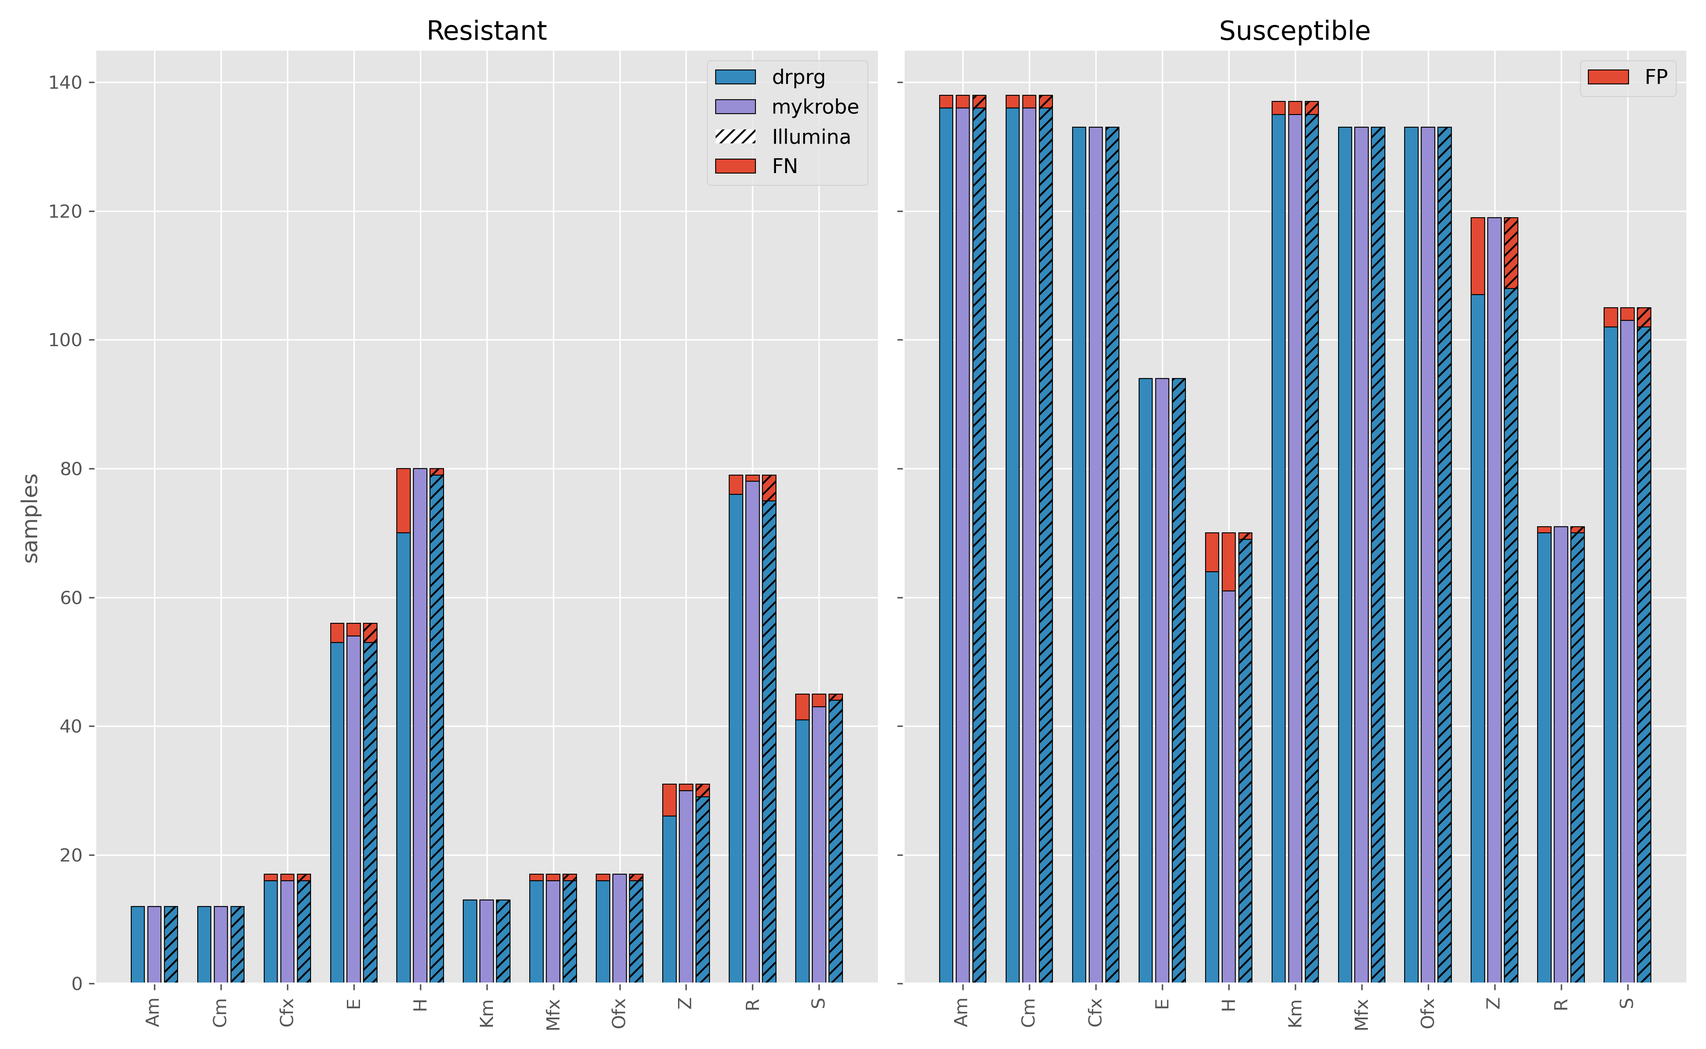
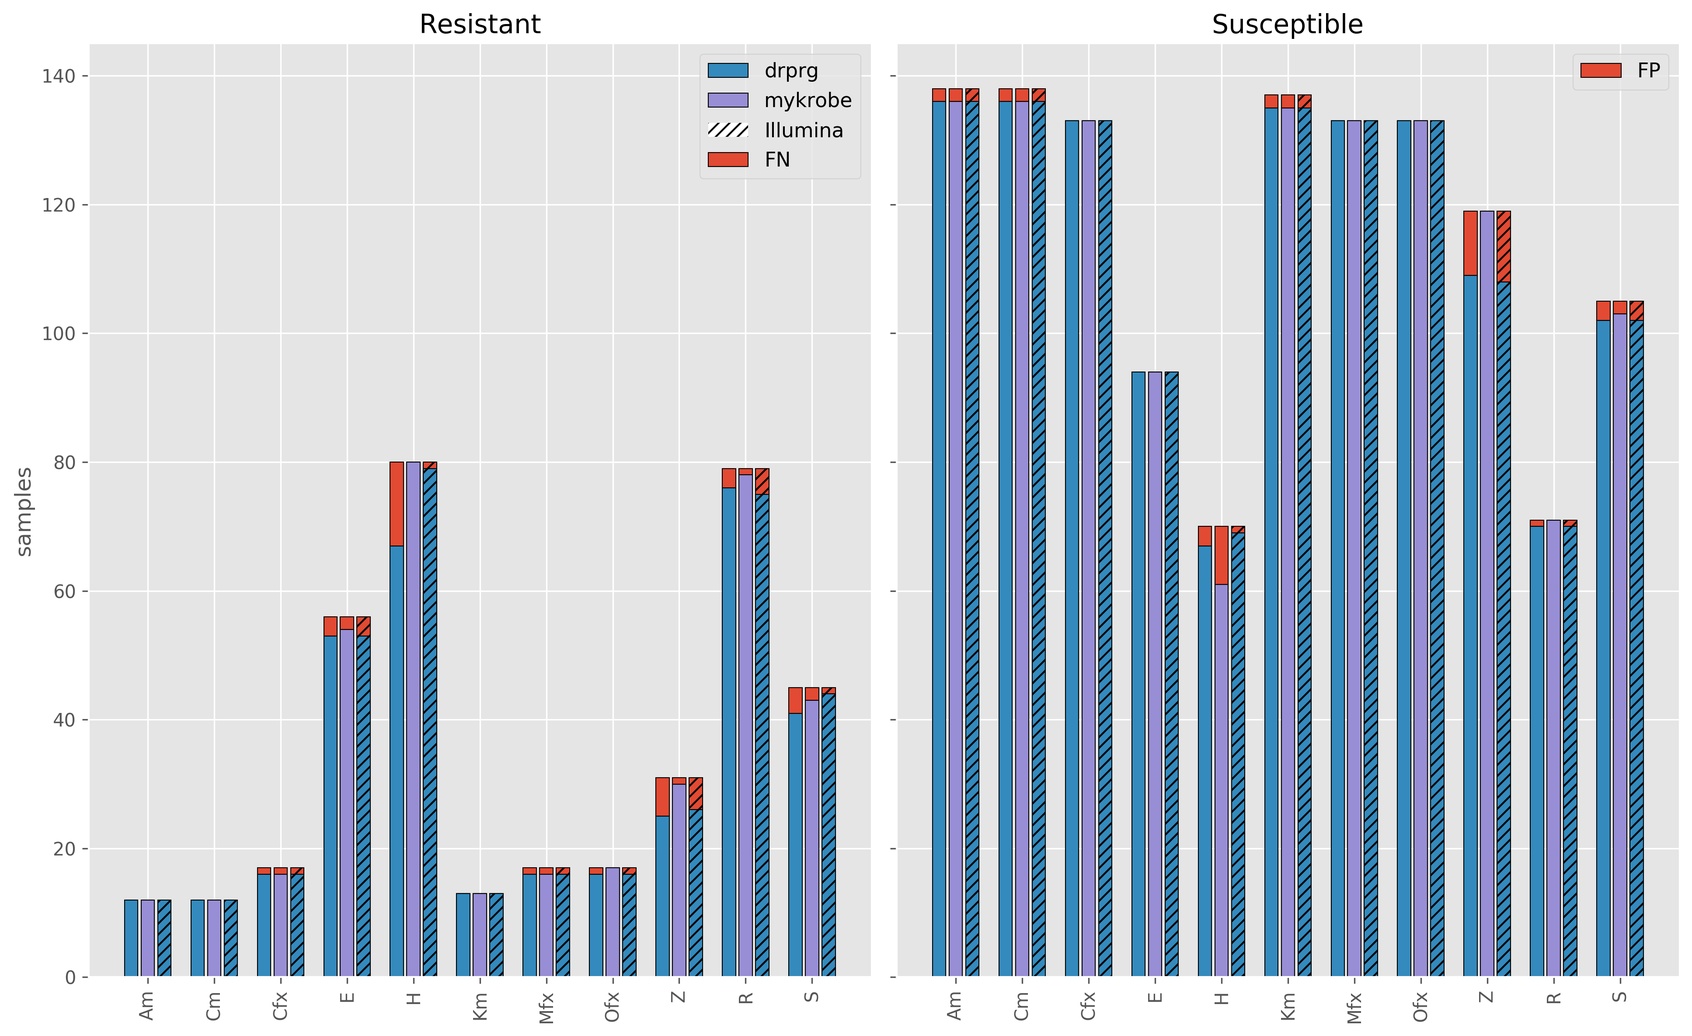
Drafting: illumina concordance DST [#3]

diff --git a/Chapter3/chapter3.tex b/Chapter3/chapter3.tex
@@ -51,7 +51,7 @@ The \mtb{} samples used in this chapter are those described in \autoref{sec:ch2-
 \towrite[inline]{waiting for text from collaborators}
 
 \subsubsection{Madagascar}
-Culture on Löwenstein-Jensen (LJ) still the gold standard method for MTB identification and for the detection of resistance. The indirect proportion method on LJ medium was performed to test the susceptibility of positive cultures against anti-TB drugs. 4 μg.ml-1, 0.2 μg.ml-1, 40 μg.ml-1, at 2 μg.ml-1, 30 μg.ml-1, 30 μg.ml-1, and 40 μg.ml-1 were the critical concentration used for Streptomycin, Isoniazid, Rifampicin, Ethambutol, Kanamycin, Amikacin and Capreomycin respectively. The growth on a drug-free medium was compared with the growth on a medium containing anti-TB agent. An isolate was identified resistant if at least 1\% of growth is present at the critical concentration of drug in the culture medium. 
+Culture on Löwenstein-Jensen (LJ) still the gold standard method for MTB identification and for the detection of resistance. The indirect proportion method on LJ medium was performed to test the susceptibility of positive cultures against anti-TB drugs. 4 ug.ml-1, 0.2 ug.ml-1, 40 ug.ml-1, at 2 ug.ml-1, 30 ug.ml-1, 30 ug.ml-1, and 40 ug.ml-1 were the critical concentration used for Streptomycin, Isoniazid, Rifampicin, Ethambutol, Kanamycin, Amikacin and Capreomycin respectively. The growth on a drug-free medium was compared with the growth on a medium containing anti-TB agent. An isolate was identified resistant if at least 1\% of growth is present at the critical concentration of drug in the culture medium. 
 
 \noindent
 In total, 128 samples have phenotypic information for at least one drug, with 80 having phenotypes for eight drugs. \autoref{tab:available-dst} shows the number of samples with culture-based DST for each drug and \autoref{fig:available-dst} depicts the combinations of drugs available for samples. For instance, in \autoref{fig:available-dst}, the third column reveals that 29 samples have phenotype information for ofloxacin and amikacin, while row three shows that 51 samples have available DST for kanamycin. 
@@ -198,7 +198,7 @@ For the drug/sample combinations with available culture-based phenotypes, we cla
 \begin{figure}
 \begin{center}
 \includegraphics[width=0.90\columnwidth]{Chapter3/Figs/pheno_concordance_plot.png}
-\caption{{Number of resistant (left) and susceptible (right) phenotypes correctly identified by mykrobe from Illumina (blue) and Nanopore (purple) data from the same samples. The red bars indicate missed (FN) or incorrect (FP) predictions. The x-axis shows the drugs with available phenotype data that mykrobe also makes predictions for. E - ethambutol; H - isoniazid; Z - pyrazinamide; R - rifampicin; S - streptomycin; Km - kanamycin; Am - amikacin; Ofx - ofloxacin; Cm - capreomycin; Mfx - moxifloxacin.
+\caption{{Number of resistant (left) and susceptible (right) culture-based drug susceptibility testing (DST) phenotypes correctly identified by mykrobe (purple) and \drprg{} (blue) with Illumina (non-striped) and \ont{} (striped) data. The red bars indicate missed (FN) or incorrect (FP) predictions. The x-axis shows the drugs with available phenotype data that the tools make predictions for. E - ethambutol; H - isoniazid; Z - pyrazinamide; R - rifampicin; S - streptomycin; Km - kanamycin; Am - amikacin; Ofx - ofloxacin; Cm - capreomycin; Mfx - moxifloxacin.
 {\label{fig:pheno-concordance}}
 }}
 \end{center}
@@ -516,7 +516,7 @@ Drug &
   94.8\% (87.4-98.0\%) \\ \hline
 \end{tabular}%
 }
-\caption{Comparison of drug resistance predictions with culture-based phenotype. For this comparison, we assume the drug susceptibility testing phenotype is correct and evaluate mykrobe Illumina and Nanopore resistance predictions accordingly. Pyrazinamide and Moxifloxacin are excluded as phenotype information is only available for 1 sample. FN=false negative; R=number of resistant samples; FP=false positive; S=number of susceptible samples; FNR=false negative rate; FPR=false positive rate; PPV=positive predictive value; NPV=negative predictive value; CI=Wilson score confidence interval}
+\caption{Comparison of WGS-based drug resistance prediction concordance with culture-based drug susceptibility testing (DST) phenotypes. For this comparison, we assume the DST phenotype is correct and evaluate the WGS predictions accordingly. \drprg{} and mykrobe are the two tools that provide WGS predictions. FN=false negative; R=number of resistant samples; FP=false positive; S=number of susceptible samples; FNR=false negative rate; FPR=false positive rate; PPV=positive predictive value; NPV=negative predictive value; CI=Wilson score confidence interval}
 \label{tab:pheno-concordance}
 \end{table}
 
@@ -529,18 +529,26 @@ While there is a seemingly high number of FNs and FPs for some drugs, many of th
 %=========================================================================
 \section{Concordance with Illumina}
 \label{sec:geno-concordance}
-% ***************
-% text from authorea
-We saw in Section 3.5 that Nanopore-derived resistance predictions are inline with those from Illumina when comparing to DST information. As not all samples in the dataset have DST data, and not all samples with DST information have all drugs covered, we explore whether the Nanopore predictions are concordant with those from Illumina - for all drugs. As our sequencing data is matched, this analysis will highlight whether the prediction method used by mykrobe is well-tuned for Nanopore data. Given the rigorous and broad validation of mykrobe's prediction power on Illumina data, if Nanopore results are concordant, this will go a long way to endorsing it's use for resistance prediction.
-We follow the same classification approach as in Section 3.5, but assume the Illumina prediction is the true phenotype and compare the Nanopore predictions accordingly. Table 3 shows that Nanopore predictions are congruent with Illumina.
-Across all drugs, there were 9 FNs (missed resistance) in total. Eight of those FNs are situations where the Illumina data has called minor resistance - a heterozygous call at a resistance-causing variant. As mykrobe uses a haploid model for Nanopore, this is unavoidable until such time as a diploid model can be employed. We did attempt to use a diploid model for Nanopore, but found a dramatic increase in the number of FNs. The other FN has a DST phenotype of susceptible for that drug (streptomycin), but some support for a resistance-causing variant in the VCFs from Sections 2.4 and 2.5 - so the truth is uncertain.
-Of the 15 FPs made; seven show strong support for the resistance-causing variant in VCFs for both technologies, with the mykrobe results from Illumina having also called the variant, but having been filtered due to low coverage;  three have a DST phenotype of resistant, indicating the Illumina result may be incorrect; five occur in the same GC-rich section of the katG gene, and are false positive indel calls by Nanopore - a known systematic problem (Watson 2019).
-% ***************
+
+We saw in \autoref{sec:pheno-concordance} that \ont{}-derived resistance predictions are inline with those from Illumina when comparing to culture-based phenotypes. As not all samples in the dataset have DST data, and not all samples with DST information have all drugs covered, we explore whether \ont{} predictions are concordant with those from mykrobe with Illumina data - for all drugs. As our sequencing data is matched (see \autoref{sec:ch2-dataset}), this analysis will highlight what impact sequencing modality has on predictions from Nanopore data. Given the rigorous and broad validation of mykrobe's prediction power on Illumina data \cite{hunt2019}, if \ont{} results are concordant, this will go a long way to endorsing it's use for resistance prediction. In addition, if the Illumina and \ont{} predictions from \drprg{} are consistent with mykrobe, this is a good first validation of the method.
+
+We follow the same classification approach as in \autoref{sec:pheno-concordance}, but assume the Illumina predictions from mykrobe are the true phenotype and compare the mykrobe \ont{} and \drprg{} (both modalities) predictions accordingly. \autoref{fig:geno-concordance} and \autoref{tab:geno-concordance} show the results of this analysis.
+
+Across all drugs, there were 8 FN (missed resistance) calls by mykrobe \ont{}. Seven of those FNs are situations where the Illumina data has called minor resistance - a heterozygous call at a resistance-causing variant. As we use a haploid model for \ont{} (see \autoref{app:mykrobe-settings}), this is unavoidable until such time as a diploid model can be employed. We did attempt to use a diploid model for \ont{}, but found a dramatic increase in the number of FNs and FPs due to indel calls. The other FN actually has a DST phenotype of susceptible (which is what the \ont{} prediction is) for that drug (streptomycin), but some support for a resistance-causing variant in the VCFs from \autoref{sec:var-calls} - so the truth is uncertain.
+
+For the \drprg{} \ont{} predictions, there were 32 FNs across all drugs. Ten of these were cases where mykrobe called minor resistance. Similar to mykrobe for \ont{}, \drprg{} employs a haploid model for both Illumina and \ont{}, hence heterzygous calls are not possible. Another 14 FNs were called by \drprg{} \ont{}, but the variant was filtered due to low FRS. All but one of these FRS cases was a promoter mutation C-15X in \textit{fabG1}. A further two FNs were also filtered out due to strand bias. Lastly, five FNs were associated with indel calls in \textit{pncA}; indels are a known systematic problem with \ont{} data \cite{watson2019}.
+
+\drprg{} with Illumina missed 17 resistance calls compared to mykrobe with Illumina. Ten of these were cases of mykrobe calling minor resistance, as mentioned above. Of the remaining 7 FNs, four were related to indel calls in \textit{pncA}, and three just have no evidence in the \drprg{} VCF.
+
+Of the 17 FPs made by mykrobe \ont{}; nine show strong support for the resistance-causing variant in VCFs (\autoref{sec:var-calls}) for both technologies, with the mykrobe results from Illumina having also called the variant, but filtered out due to low coverage; eight are false positive isoniazid indel calls made by \ont{} in a GC-rich region \textit{katG}. Additionally, in 8/17 FPs, the culture-based phenotype supports the \ont{} prediction.
+
+The \drprg{} predictions had 23 and 22 FPs for \ont{} and Illumina data respectively. The one difference being the \ont{} predictions have one more isoniazid FP from a \textit{katG} indel call. 11/23 FPs are associated with indel calls in \textit{pncA} causing a false resistance call for pyrazinamide. Indel calls were also the cause of two FPs for isoniazid (\textit{katG}) and one for rifampicin (\textit{rpoB}). Similar to the mykrobe \ont{} calls, 10 of the \drprg{} FPs showed strong support for the resistance-causing variant in VCFs (\autoref{sec:var-calls}) for both technologies, with the mykrobe results from Illumina having also called the variant, but filtered out due to low coverage. Additionally, in 11 FPs, the culture-based phenotype supports the \drprg{} prediction.
+
 
 \begin{figure}
 \begin{center}
 \includegraphics[width=0.90\columnwidth]{Chapter3/Figs/illumina_concordance.png}
-\caption{{Number of resistant (left) and susceptible (right) genotypes correctly identified by mykrobe from Illumina (blue) and Nanopore (purple) data from the same samples. The genotypes are predictions from mykrobe with Illumina data. The red bars indicate missed (FN) or incorrect (FP) predictions. The x-axis shows the drugs with available phenotype data that mykrobe also makes predictions for. E - ethambutol; H - isoniazid; Z - pyrazinamide; R - rifampicin; S - streptomycin; Km - kanamycin; Am - amikacin; Ofx - ofloxacin; Cm - capreomycin; Mfx - moxifloxacin.
+\caption{{Number of resistant (left) and susceptible (right) WGS-based drug resistance phenotypes correctly identified by mykrobe \ont{} (purple) and \drprg{} (blue) with Illumina (striped) and \ont{} (non-striped) data. For this analysis, the Illumina-based mykrobe predictions are considered truth and the other predictions are assessed accordingly. The red bars indicate missed (FN) or incorrect (FP) predictions. The x-axis shows the drugs that mykrobe makes predictions for. E - ethambutol; H - isoniazid; Z - pyrazinamide; R - rifampicin; S - streptomycin; Km - kanamycin; Am - amikacin; Ofx - ofloxacin; Cm - capreomycin; Mfx - moxifloxacin.
 {\label{fig:geno-concordance}}
 }}
 \end{center}
@@ -549,7 +557,7 @@ Of the 15 FPs made; seven show strong support for the resistance-causing variant
 \begin{table}
 \centering
 \resizebox{\textwidth}{!}{%
-\begin{tabular}{lllllllll}
+\begin{tabular}{|l|l|l|l|l|l|l|l|l|}
 \hline
 Drug &
   Tool &
@@ -568,7 +576,7 @@ Drug &
   0.0\% (0.0-24.2\%) &
   1.4\% (0.4-5.1\%) &
   85.7\% (60.1-96.0\%) &
-  100.0\% (97.3-100.0\%) \\
+  100.0\% (97.3-100.0\%) \\ \cline{3-9} 
  &
    &
   \multirow{2}{*}{Nanopore} &
@@ -577,7 +585,7 @@ Drug &
   0.0\% (0.0-24.2\%) &
   1.4\% (0.4-5.1\%) &
   85.7\% (60.1-96.0\%) &
-  100.0\% (97.3-100.0\%) \\
+  100.0\% (97.3-100.0\%) \\ \cline{2-2} \cline{4-9} 
  &
   Mykrobe &
    &
@@ -586,7 +594,7 @@ Drug &
   0.0\% (0.0-24.2\%) &
   1.4\% (0.4-5.1\%) &
   85.7\% (60.1-96.0\%) &
-  100.0\% (97.3-100.0\%) \\
+  100.0\% (97.3-100.0\%) \\ \hline
 \multirow{3}{*}{Capreomycin} &
   \multirow{2}{*}{Drprg} &
   Illumina &
@@ -595,7 +603,7 @@ Drug &
   0.0\% (0.0-24.2\%) &
   1.4\% (0.4-5.1\%) &
   85.7\% (60.1-96.0\%) &
-  100.0\% (97.3-100.0\%) \\
+  100.0\% (97.3-100.0\%) \\ \cline{3-9} 
  &
    &
   \multirow{2}{*}{Nanopore} &
@@ -604,7 +612,7 @@ Drug &
   0.0\% (0.0-24.2\%) &
   1.4\% (0.4-5.1\%) &
   85.7\% (60.1-96.0\%) &
-  100.0\% (97.3-100.0\%) \\
+  100.0\% (97.3-100.0\%) \\ \cline{2-2} \cline{4-9} 
  &
   Mykrobe &
    &
@@ -613,7 +621,7 @@ Drug &
   0.0\% (0.0-24.2\%) &
   1.4\% (0.4-5.1\%) &
   85.7\% (60.1-96.0\%) &
-  100.0\% (97.3-100.0\%) \\
+  100.0\% (97.3-100.0\%) \\ \hline
 \multirow{3}{*}{Ciprofloxacin} &
   \multirow{2}{*}{Drprg} &
   Illumina &
@@ -622,7 +630,7 @@ Drug &
   5.9\% (1.0-27.0\%) &
   0.0\% (0.0-2.8\%) &
   100.0\% (80.6-100.0\%) &
-  99.3\% (95.9-99.9\%) \\
+  99.3\% (95.9-99.9\%) \\ \cline{3-9} 
  &
    &
   \multirow{2}{*}{Nanopore} &
@@ -631,7 +639,7 @@ Drug &
   5.9\% (1.0-27.0\%) &
   0.0\% (0.0-2.8\%) &
   100.0\% (80.6-100.0\%) &
-  99.3\% (95.9-99.9\%) \\
+  99.3\% (95.9-99.9\%) \\ \cline{2-2} \cline{4-9} 
  &
   Mykrobe &
    &
@@ -640,7 +648,7 @@ Drug &
   5.9\% (1.0-27.0\%) &
   0.0\% (0.0-2.8\%) &
   100.0\% (80.6-100.0\%) &
-  99.3\% (95.9-99.9\%) \\
+  99.3\% (95.9-99.9\%) \\ \hline
 \multirow{3}{*}{Ethambutol} &
   \multirow{2}{*}{Drprg} &
   Illumina &
@@ -649,7 +657,7 @@ Drug &
   5.4\% (1.8-14.6\%) &
   0.0\% (0.0-3.9\%) &
   100.0\% (93.2-100.0\%) &
-  96.9\% (91.3-98.9\%) \\
+  96.9\% (91.3-98.9\%) \\ \cline{3-9} 
  &
    &
   \multirow{2}{*}{Nanopore} &
@@ -658,7 +666,7 @@ Drug &
   5.4\% (1.8-14.6\%) &
   0.0\% (0.0-3.9\%) &
   100.0\% (93.2-100.0\%) &
-  96.9\% (91.3-98.9\%) \\
+  96.9\% (91.3-98.9\%) \\ \cline{2-2} \cline{4-9} 
  &
   Mykrobe &
    &
@@ -667,7 +675,7 @@ Drug &
   3.6\% (1.0-12.1\%) &
   0.0\% (0.0-3.9\%) &
   100.0\% (93.4-100.0\%) &
-  97.9\% (92.7-99.4\%) \\
+  97.9\% (92.7-99.4\%) \\ \hline
 \multirow{3}{*}{Isoniazid} &
   \multirow{2}{*}{Drprg} &
   Illumina &
@@ -676,7 +684,7 @@ Drug &
   1.2\% (0.2-6.7\%) &
   1.4\% (0.3-7.7\%) &
   98.8\% (93.3-99.8\%) &
-  98.6\% (92.3-99.7\%) \\
+  98.6\% (92.3-99.7\%) \\ \cline{3-9} 
  &
    &
   \multirow{2}{*}{Nanopore} &
@@ -685,7 +693,7 @@ Drug &
   16.2\% (9.7-25.8\%) &
   4.3\% (1.5-11.9\%) &
   95.7\% (88.1-98.5\%) &
-  83.8\% (74.2-90.3\%) \\
+  83.8\% (74.2-90.3\%) \\ \cline{2-2} \cline{4-9} 
  &
   Mykrobe &
    &
@@ -694,7 +702,7 @@ Drug &
   0.0\% (0.0-4.6\%) &
   12.9\% (6.9-22.7\%) &
   89.9\% (81.9-94.6\%) &
-  100.0\% (94.1-100.0\%) \\
+  100.0\% (94.1-100.0\%) \\ \hline
 \multirow{3}{*}{Kanamycin} &
   \multirow{2}{*}{Drprg} &
   Illumina &
@@ -703,7 +711,7 @@ Drug &
   0.0\% (0.0-22.8\%) &
   1.5\% (0.4-5.2\%) &
   86.7\% (62.1-96.3\%) &
-  100.0\% (97.2-100.0\%) \\
+  100.0\% (97.2-100.0\%) \\ \cline{3-9} 
  &
    &
   \multirow{2}{*}{Nanopore} &
@@ -712,7 +720,7 @@ Drug &
   0.0\% (0.0-22.8\%) &
   1.5\% (0.4-5.2\%) &
   86.7\% (62.1-96.3\%) &
-  100.0\% (97.2-100.0\%) \\
+  100.0\% (97.2-100.0\%) \\ \cline{2-2} \cline{4-9} 
  &
   Mykrobe &
    &
@@ -721,7 +729,7 @@ Drug &
   0.0\% (0.0-22.8\%) &
   1.5\% (0.4-5.2\%) &
   86.7\% (62.1-96.3\%) &
-  100.0\% (97.2-100.0\%) \\
+  100.0\% (97.2-100.0\%) \\ \hline
 \multirow{3}{*}{Moxifloxacin} &
   \multirow{2}{*}{Drprg} &
   Illumina &
@@ -730,7 +738,7 @@ Drug &
   5.9\% (1.0-27.0\%) &
   0.0\% (0.0-2.8\%) &
   100.0\% (80.6-100.0\%) &
-  99.3\% (95.9-99.9\%) \\
+  99.3\% (95.9-99.9\%) \\ \cline{3-9} 
  &
    &
   \multirow{2}{*}{Nanopore} &
@@ -739,7 +747,7 @@ Drug &
   5.9\% (1.0-27.0\%) &
   0.0\% (0.0-2.8\%) &
   100.0\% (80.6-100.0\%) &
-  99.3\% (95.9-99.9\%) \\
+  99.3\% (95.9-99.9\%) \\ \cline{2-2} \cline{4-9} 
  &
   Mykrobe &
    &
@@ -748,7 +756,7 @@ Drug &
   5.9\% (1.0-27.0\%) &
   0.0\% (0.0-2.8\%) &
   100.0\% (80.6-100.0\%) &
-  99.3\% (95.9-99.9\%) \\
+  99.3\% (95.9-99.9\%) \\ \hline
 \multirow{3}{*}{Ofloxacin} &
   \multirow{2}{*}{Drprg} &
   Illumina &
@@ -757,7 +765,7 @@ Drug &
   5.9\% (1.0-27.0\%) &
   0.0\% (0.0-2.8\%) &
   100.0\% (80.6-100.0\%) &
-  99.3\% (95.9-99.9\%) \\
+  99.3\% (95.9-99.9\%) \\ \cline{3-9} 
  &
    &
   \multirow{2}{*}{Nanopore} &
@@ -766,7 +774,7 @@ Drug &
   5.9\% (1.0-27.0\%) &
   0.0\% (0.0-2.8\%) &
   100.0\% (80.6-100.0\%) &
-  99.3\% (95.9-99.9\%) \\
+  99.3\% (95.9-99.9\%) \\ \cline{2-2} \cline{4-9} 
  &
   Mykrobe &
    &
@@ -775,7 +783,7 @@ Drug &
   0.0\% (0.0-18.4\%) &
   0.0\% (0.0-2.8\%) &
   100.0\% (81.6-100.0\%) &
-  100.0\% (97.2-100.0\%) \\
+  100.0\% (97.2-100.0\%) \\ \hline
 \multirow{3}{*}{Pyrazinamide} &
   \multirow{2}{*}{Drprg} &
   Illumina &
@@ -784,7 +792,7 @@ Drug &
   16.1\% (7.1-32.6\%) &
   9.2\% (5.2-15.8\%) &
   70.3\% (54.2-82.5\%) &
-  95.6\% (90.1-98.1\%) \\
+  95.6\% (90.1-98.1\%) \\ \cline{3-9} 
  &
    &
   \multirow{2}{*}{Nanopore} &
@@ -793,7 +801,7 @@ Drug &
   19.4\% (9.2-36.3\%) &
   8.4\% (4.6-14.8\%) &
   71.4\% (54.9-83.7\%) &
-  94.8\% (89.1-97.6\%) \\
+  94.8\% (89.1-97.6\%) \\ \cline{2-2} \cline{4-9} 
  &
   Mykrobe &
    &
@@ -802,7 +810,7 @@ Drug &
   3.2\% (0.6-16.2\%) &
   0.0\% (0.0-3.1\%) &
   100.0\% (88.6-100.0\%) &
-  99.2\% (95.4-99.9\%) \\
+  99.2\% (95.4-99.9\%) \\ \hline
 \multirow{3}{*}{Rifampicin} &
   \multirow{2}{*}{Drprg} &
   Illumina &
@@ -811,7 +819,7 @@ Drug &
   5.1\% (2.0-12.3\%) &
   1.4\% (0.2-7.6\%) &
   98.7\% (92.9-99.8\%) &
-  94.6\% (86.9-97.9\%) \\
+  94.6\% (86.9-97.9\%) \\ \cline{3-9} 
  &
    &
   \multirow{2}{*}{Nanopore} &
@@ -820,7 +828,7 @@ Drug &
   3.8\% (1.3-10.6\%) &
   1.4\% (0.2-7.6\%) &
   98.7\% (93.0-99.8\%) &
-  95.9\% (88.6-98.6\%) \\
+  95.9\% (88.6-98.6\%) \\ \cline{2-2} \cline{4-9} 
  &
   Mykrobe &
    &
@@ -829,7 +837,7 @@ Drug &
   1.3\% (0.2-6.8\%) &
   0.0\% (0.0-5.1\%) &
   100.0\% (95.3-100.0\%) &
-  98.6\% (92.5-99.8\%) \\
+  98.6\% (92.5-99.8\%) \\ \hline
 \multirow{3}{*}{Streptomycin} &
   \multirow{2}{*}{Drprg} &
   Illumina &
@@ -838,7 +846,7 @@ Drug &
   2.2\% (0.4-11.6\%) &
   2.9\% (1.0-8.1\%) &
   93.6\% (82.8-97.8\%) &
-  99.0\% (94.7-99.8\%) \\
+  99.0\% (94.7-99.8\%) \\ \cline{3-9} 
  &
    &
   \multirow{2}{*}{Nanopore} &
@@ -847,7 +855,7 @@ Drug &
   8.9\% (3.5-20.7\%) &
   2.9\% (1.0-8.1\%) &
   93.2\% (81.8-97.7\%) &
-  96.2\% (90.7-98.5\%) \\
+  96.2\% (90.7-98.5\%) \\ \cline{2-2} \cline{4-9} 
  &
   Mykrobe &
    &
@@ -856,23 +864,24 @@ Drug &
   4.4\% (1.2-14.8\%) &
   1.9\% (0.5-6.7\%) &
   95.6\% (85.2-98.8\%) &
-  98.1\% (93.3-99.5\%) \\ \cline{2-2} \cline{4-9} 
+  98.1\% (93.3-99.5\%) \\ \hline
 \end{tabular}%
 }
-\caption{Comparison of Nanopore drug resistance predictions with Illumina predictions.
-For this comparison, we assume the mykrobe resistance prediction from Illumina data is correct and evaluate the Nanopore prediction accordingly.
-FN=false negative; R=number of resistant samples; FP=false positive; S=number of susceptible samples; FNR=false negative rate; FPR=false positive rate; PPV=positive predictive value; NPV=negative predictive value; CI=Wilson score confidence interval}
+\caption{Comparison of \drprg{} and mykrobe \ont{} drug resistance predictions with mykrobe Illumina predictions. For this comparison, we assume the mykrobe resistance prediction from Illumina data is correct and evaluate the other predictions accordingly. FN=false negative; R=number of resistant samples; FP=false positive; S=number of susceptible samples; FNR=false negative rate; FPR=false positive rate; PPV=positive predictive value; NPV=negative predictive value; CI=Wilson score confidence interval}
 \label{tab:geno-concordance}
 \end{table}
+
+\subsection{Summary}
+
+In summary, mykrobe \ont{} resistance predictions are very much in line with those from Illumina data. All but one of the missed resistance calls was due to heterozygous calls, which \ont{} cannot replicate yet. Additionally, many of the false resistance calls were either \ont{} making incorrect indel calls, or Illumina actually missing variants with strong support from the analysis in \autoref{sec:var-calls}.
+
+For most drugs, \drprg{} predictions are concordant with mykrobe's Illumina calls. More than half of the Illumina missed resistance calls were due to \drprg{} (i.e., \pandora{}) using a haploid model and not being able to detect heterozygous positions. Much of the \ont{} missed resistance was due to the same reason - mykrobe making minor resistance calls or \drprg{} having a low fraction of read support for the mutation in question. The resounding reason for false resistance calls from \drprg{}, for both technologies, was incorrect indel calls in \textit{pncA}. However, nearly half of the \drprg{} FPs are possibly missed resistance on mykrobe's part, with the calls having been filtered out by mykrobe due to low support. 
 
 %=========================================================================
 \section{Effect of coverage on predictions}
 
-% ***************
-% text from authorea
-It has previously been shown that deep coverage is required of Nanopore to accurately predict drug resistance (Votintseva 2017). As Nanopore sequencing advances quickly, and our dataset contains a broad depth-of-coverage range (~29-150x) we explore whether this requirement of high coverage still holds.
+It has previously been shown that deep coverage is required of \ont{} to accurately predict drug resistance \cite{Votintseva2017}. As Nanopore sequencing advances quickly, and our dataset contains a broad depth-of-coverage range (~29-150x) we explore whether this requirement of high coverage still holds.
 We binned samples into groups based on their read depth and looked at whether there is a higher proportion of errors in the lower coverage bins. Figure 9 shows there is no relationship between coverage and errors. Further work at depths lower than 30x is warranted, but there is convincing evidence here that samples with "only" 30x coverage should still yield reliable resistance predictions. 
-% ***************
 
 \begin{figure}
 \begin{center}
